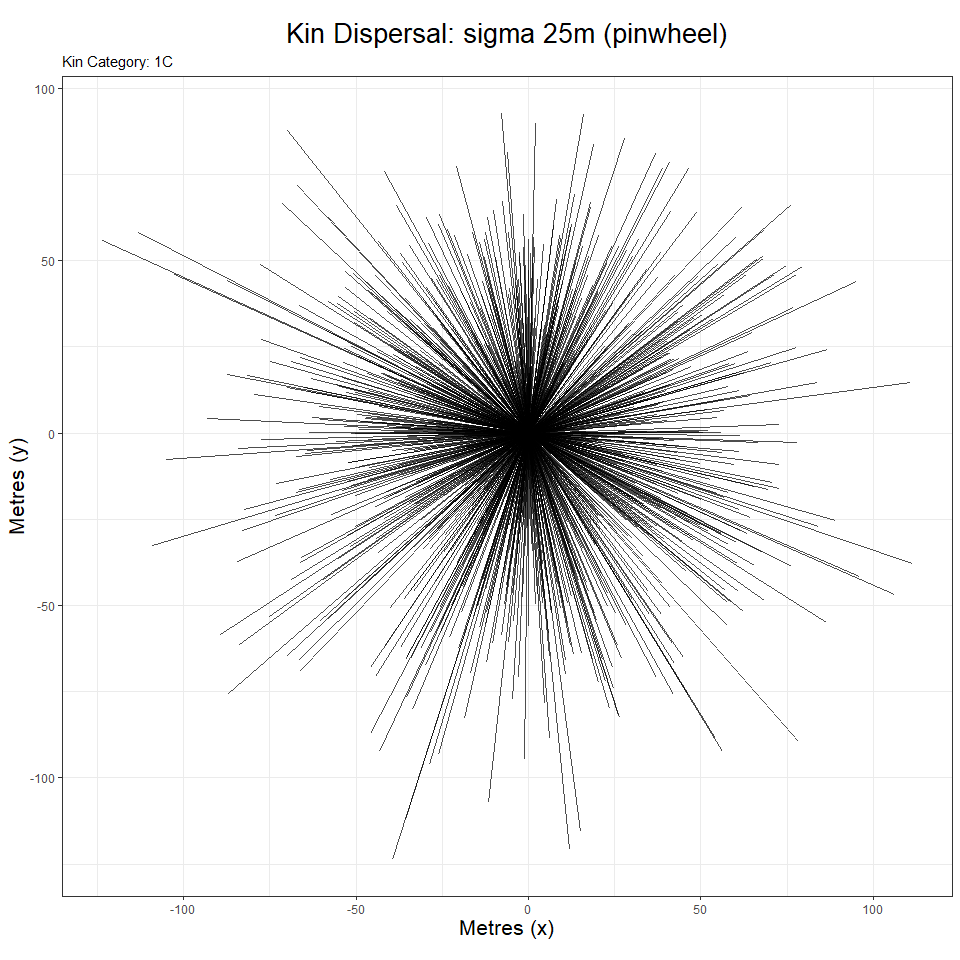
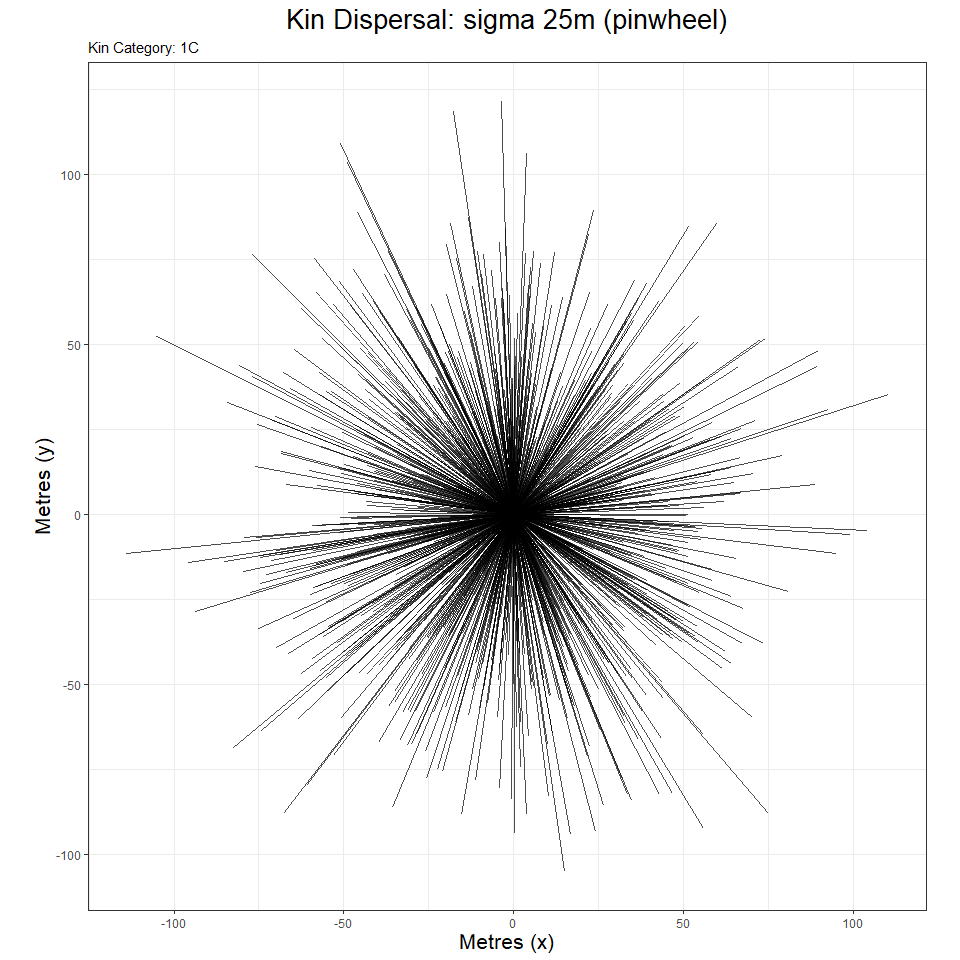
readme links

diff --git a/README.md b/README.md
@@ -101,9 +101,10 @@ dispersal using close-kin recaptures must find strategies to decompose
 the extraneous spatial and breeding components affecting the kernels,
 and ultimately re-express dispersal in terms of an axial sigma - that
 aspect of dispersal which operates within one dimension across a
-two-dimensional space. This is the sigma component relied upon by Wright
+two-dimensional space. This is the sigma component relied upon by
+[Wright (1946)](https://www.ncbi.nlm.nih.gov/pmc/articles/PMC1209315/)
 for isolation by distance , and which is reflected in estimations of
-neighbourhood area (Wright, 1946) .
+neighbourhood area.
 
 The method we have developed relies upon the fact that different kinship
 categories reflect different but related underlying intergenerational
@@ -126,9 +127,10 @@ phased relationships include half sibling larvae to half cousin larvae
 or even (for mosquitoes) full sibling larvae to second cousin
 ovipositing adults (three cycles).
 
-Further details can be found in Jasper et al. (2019) “A genomic approach
+Further details can be found in [Jasper et
+al. (2019)](https://doi.org/10.1111/1755-0998.13043) “A genomic approach
 to inferring kinship reveals limited intergenerational dispersal in the
-yellow fever mosquito” .
+yellow fever mosquito”.
 
 This package supplements these papers by supplying methods for (a)
 importing and exporting information about distances & kinship
@@ -311,13 +313,13 @@ simulate_kindist_simple(nsims = 5, sigma = 100, method = "Gaussian", kinship = "
 #> 
 #> tab
 #> # A tibble: 5 x 8
-#>   id1   id2   kinship distance    x1    y1     x2     y2
-#>   <chr> <chr> <chr>      <dbl> <dbl> <dbl>  <dbl>  <dbl>
-#> 1 1a    1b    PO         269.   37.4  46.7 306.     28.2
-#> 2 2a    2b    PO          85.3  39.3  29.5 120.     58.2
-#> 3 3a    3b    PO         192.   79.5  41.3 -43.9  -105. 
-#> 4 4a    4b    PO          73.7  61.7  68.4   9.44  120. 
-#> 5 5a    5b    PO         128.   46.9  64.8 174.     71.4
+#>   id1   id2   kinship distance    x1    y1    x2     y2
+#>   <chr> <chr> <chr>      <dbl> <dbl> <dbl> <dbl>  <dbl>
+#> 1 1a    1b    PO         106.   82.7 49.3  139.   139. 
+#> 2 2a    2b    PO         154.   54.1  8.68 181.   -78.2
+#> 3 3a    3b    PO         240.   59.5 14.9   15.9 -221. 
+#> 4 4a    4b    PO         159.   29.2 42.0  124.   169. 
+#> 5 5a    5b    PO          37.7  13.7 66.0   38.2   94.7
 #> -----------------------------------
 ```
 
@@ -363,13 +365,13 @@ simulate_kindist_composite(nsims = 5, initsigma = 50, breedsigma = 30, gravsigma
 #> 
 #> tab
 #> # A tibble: 5 x 8
-#>   id1   id2   kinship distance    x1     y1      x2    y2
-#>   <chr> <chr> <chr>      <dbl> <dbl>  <dbl>   <dbl> <dbl>
-#> 1 1a    1b    H1C         182.  23.0  -40.7   78.5  132. 
-#> 2 2a    2b    H1C         642. 258.  -219.  -113.   304. 
-#> 3 3a    3b    H1C         194. 173.   158.    -1.87  74.9
-#> 4 4a    4b    H1C         147. -42.2   27.4   61.2  -77.3
-#> 5 5a    5b    H1C         243. -29.6   97.7  212.   121. 
+#>   id1   id2   kinship distance     x1    y1     x2     y2
+#>   <chr> <chr> <chr>      <dbl>  <dbl> <dbl>  <dbl>  <dbl>
+#> 1 1a    1b    H1C         339.  134.  265.    40.2  -60.8
+#> 2 2a    2b    H1C         209.  165.  -62.3  298.    99.3
+#> 3 3a    3b    H1C         247. -172.   32.1   49.7  -75.9
+#> 4 4a    4b    H1C         283.   61.1 -26.0  113.  -304. 
+#> 5 5a    5b    H1C         453.  189.  101.  -263.    69.8
 #> -----------------------------------
 ```
 
@@ -411,18 +413,18 @@ sample_kindist(compsim, upper = 1000, lower = 200, spacing = 50, n = 25)
 #> 
 #> tab
 #> # A tibble: 25 x 8
-#>    id1    id2    kinship distance      x1     y1      x2     y2
-#>    <chr>  <chr>  <chr>      <dbl>   <dbl>  <dbl>   <dbl>  <dbl>
-#>  1 28183a 28183b H2C          375  130.    -78.8 -156.    131. 
-#>  2 90212a 90212b H2C          875 -100.   -255.   -50.7   642. 
-#>  3 17202a 17202b H2C          275   77.0   317.  -146.    164. 
-#>  4 55344a 55344b H2C          225    1.70   47.9  183.    -41.0
-#>  5 32984a 32984b H2C          725   61.9   652.   176.    -67.9
-#>  6 70531a 70531b H2C          225  -42.7    34.3   38.7  -154. 
-#>  7 28491a 28491b H2C          225  220.    271.     9.48  154. 
-#>  8 61204a 61204b H2C          475  239.   -136.    19.3   278. 
-#>  9 13840a 13840b H2C          225  -38.3   -22.2  183.    -44.6
-#> 10 65045a 65045b H2C          225   64.4   -13.3   51.4  -254. 
+#>    id1    id2    kinship distance      x1      y1     x2      y2
+#>    <chr>  <chr>  <chr>      <dbl>   <dbl>   <dbl>  <dbl>   <dbl>
+#>  1 54343a 54343b H2C          725 -526.    417.     59.4  -16.7 
+#>  2 60768a 60768b H2C          325 -188.     69.8  -495.    -4.51
+#>  3 58291a 58291b H2C          525  -51.7  -114.   -395.   295.  
+#>  4 15124a 15124b H2C          375    2.32  135.   -242.   431.  
+#>  5 75445a 75445b H2C          325 -122.   -328.    140.  -158.  
+#>  6 64044a 64044b H2C          225   23.4   -77.6   109.   122.  
+#>  7 87739a 87739b H2C          325  238.      4.99  -11.6 -223.  
+#>  8 70672a 70672b H2C          475 -241.    -73.0   165.   141.  
+#>  9 61016a 61016b H2C          425   60.5  -293.    122.   127.  
+#> 10 45460a 45460b H2C          475   70.7   432.   -277.   141.  
 #> # ... with 15 more rows
 #> -----------------------------------
 ```
@@ -517,13 +519,13 @@ of three draws from the PO distribution, and thus would take
 ``` r
 paroff <- simulate_kindist_simple(nsims = 1000, sigma = 75, kinship = "PO")
 axials(paroff)
-#> [1] 73.85303
+#> [1] 76.57723
 ```
 
 ``` r
 fullsibs <- simulate_kindist_composite(nsims = 10000, ovisigma = 25, kinship = "FS")
 axials(fullsibs, composite = 2)
-#> [1] 25.08214
+#> [1] 25.03619
 ```
 
 Various auxillary functions exist to further manipulate axial distances
@@ -606,7 +608,7 @@ fullcous <- simulate_kindist_composite(nsims = 75, initsigma = init, breedsigma 
 
 axpermute_standard(fullcous, fullsibs)
 #>      2.5%       50%     97.5% 
-#>  82.92921  93.69384 104.18550
+#>  80.90232  91.45890 102.94384
 ```
 
 As we can see, the C.I. neatly brackets the actual axial value, though
@@ -635,18 +637,18 @@ cousins
 #> 
 #> tab
 #> # A tibble: 150 x 9
-#>    id1   id2   kinship distance      x1    y1      x2     y2 lifestage
-#>    <chr> <chr> <chr>      <dbl>   <dbl> <dbl>   <dbl>  <dbl> <chr>    
-#>  1 1a    1b    UN         215.    99.9  258.   52.7     47.7 larva    
-#>  2 2a    2b    UN         137.     5.61 180.  142.     167.  larva    
-#>  3 3a    3b    UN         166.   -29.3  -19.8 130.      27.1 larva    
-#>  4 4a    4b    UN         117.    67.6   33.9 -48.7     21.9 larva    
-#>  5 5a    5b    UN         275.   -95.7  186.  136.      37.0 larva    
-#>  6 6a    6b    UN         349.  -104.    52.8 243.      22.5 larva    
-#>  7 7a    7b    UN          89.0  -10.2  -57.9 -15.9     30.9 larva    
-#>  8 8a    8b    UN         135.   160.   108.   27.1    133.  larva    
-#>  9 9a    9b    UN         146.   -46.3   81.1 100.      84.7 larva    
-#> 10 10a   10b   UN         400.   295.   112.    0.118 -157.  larva    
+#>    id1   id2   kinship distance     x1     y1     x2     y2 lifestage
+#>    <chr> <chr> <chr>      <dbl>  <dbl>  <dbl>  <dbl>  <dbl> <chr>    
+#>  1 1a    1b    UN         120.    50.8  41.1   165.    77.8 larva    
+#>  2 2a    2b    UN         111.    56.3  52.6    15.9  -50.5 larva    
+#>  3 3a    3b    UN         110.   -60.8  38.9   -60.9  -71.5 larva    
+#>  4 4a    4b    UN         186.   -72.6 216.     75.9  105.  larva    
+#>  5 5a    5b    UN         116.    78.1   5.48  192.   -15.4 larva    
+#>  6 6a    6b    UN         163.    14.4  51.5   156.   -28.4 larva    
+#>  7 7a    7b    UN         318.    11.6 187.   -125.  -101.  larva    
+#>  8 8a    8b    UN         146.  -106.  163.    -17.1   46.6 larva    
+#>  9 9a    9b    UN          91.6   52.8  57.3   126.   112.  larva    
+#> 10 10a   10b   UN         216.   113.  256.   -102.   231.  larva    
 #> # ... with 140 more rows
 #> -------------------------------
 ```
@@ -661,8 +663,8 @@ missing category data:
 # bcomp allows supply of distribution to composite with bvect (this is done to match 
 # the cousin mixture in phase)
 axpermute_standard(avect = cousins, acat = "1C", amix = TRUE, amixcat = "H1C", bvect = fullsibs, bcomp = TRUE, bcompvect = halfsibs)
-#>     2.5%      50%    97.5% 
-#> 75.33675 87.32855 98.76398
+#>      2.5%       50%     97.5% 
+#>  78.00366  89.83815 100.90087
 ```
 
 This estimate is a lot more convoluted, and not as ‘spot on’- but the
